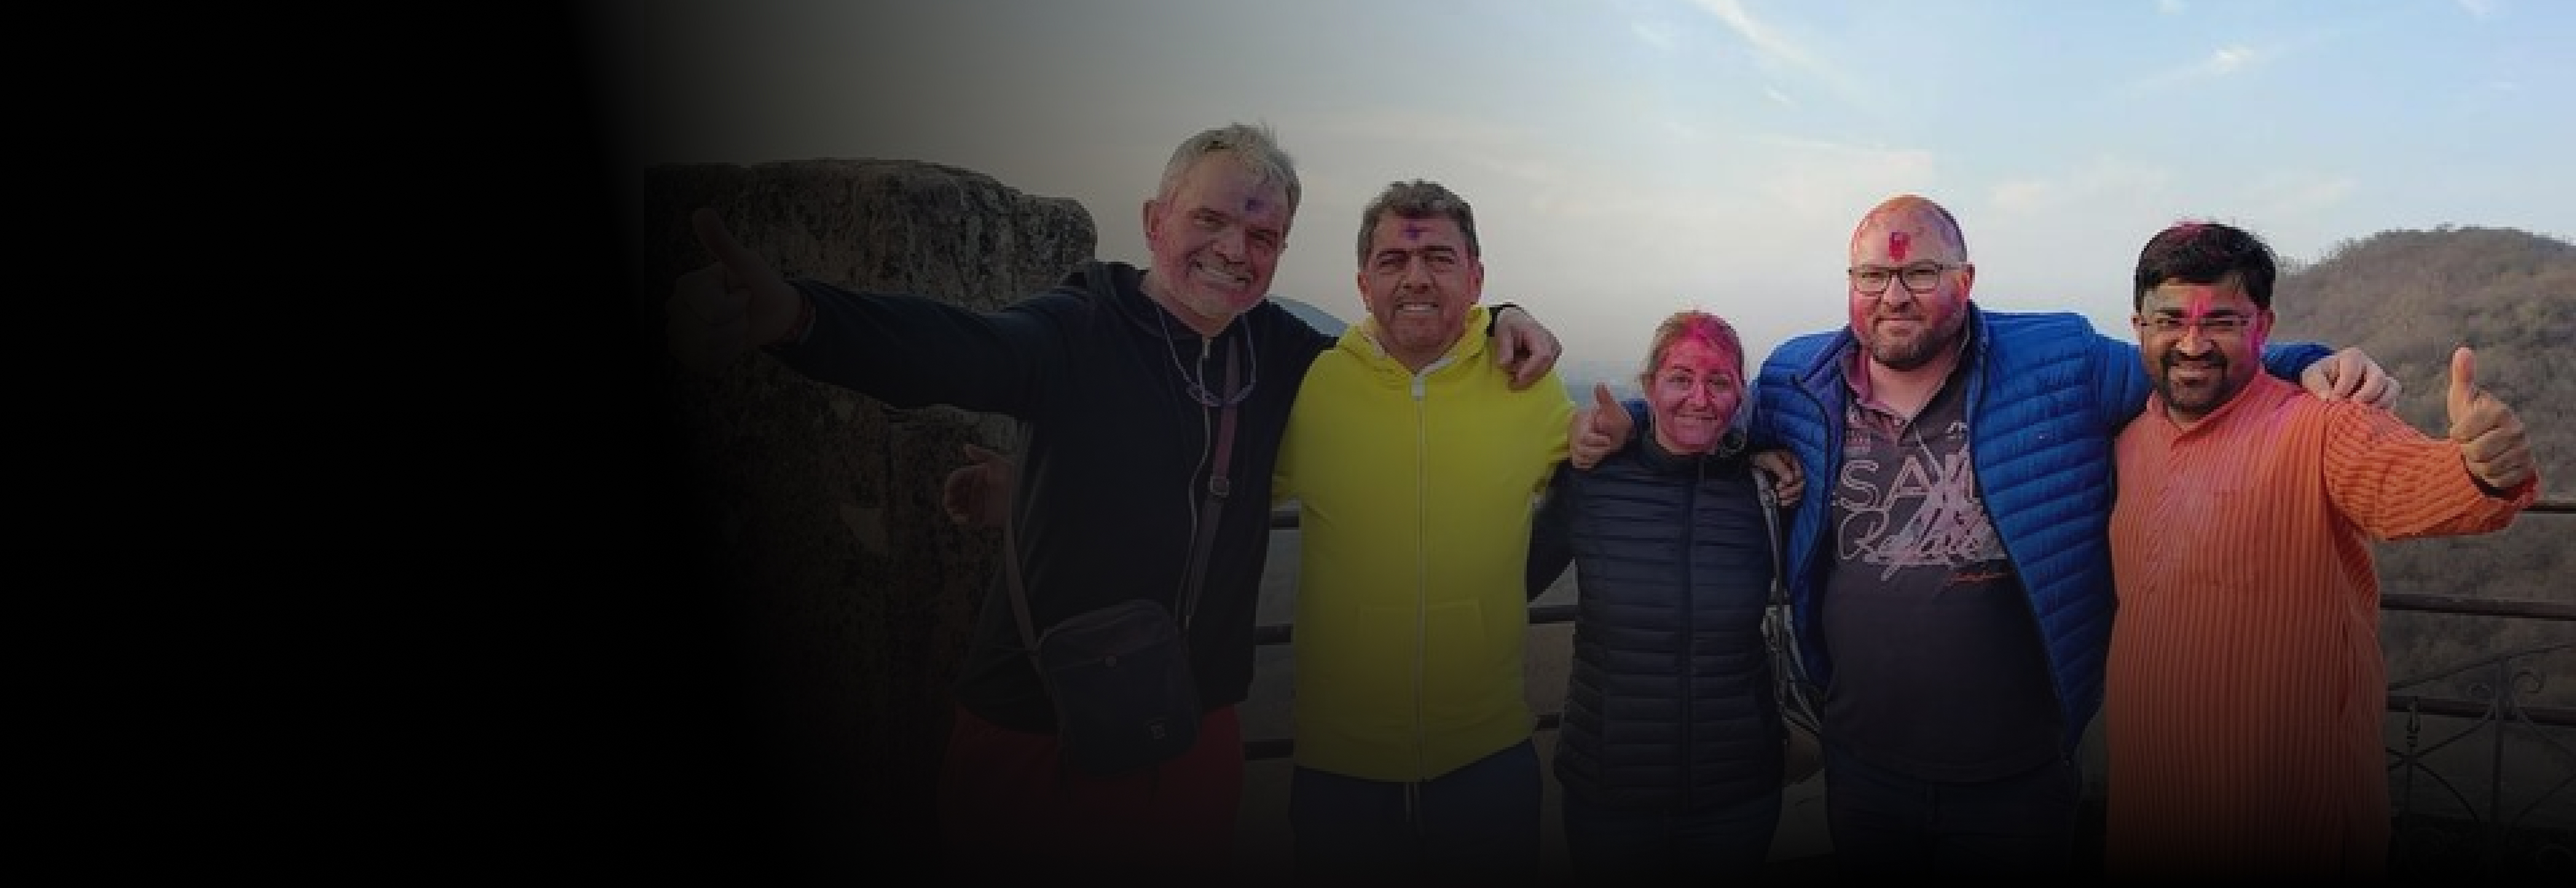
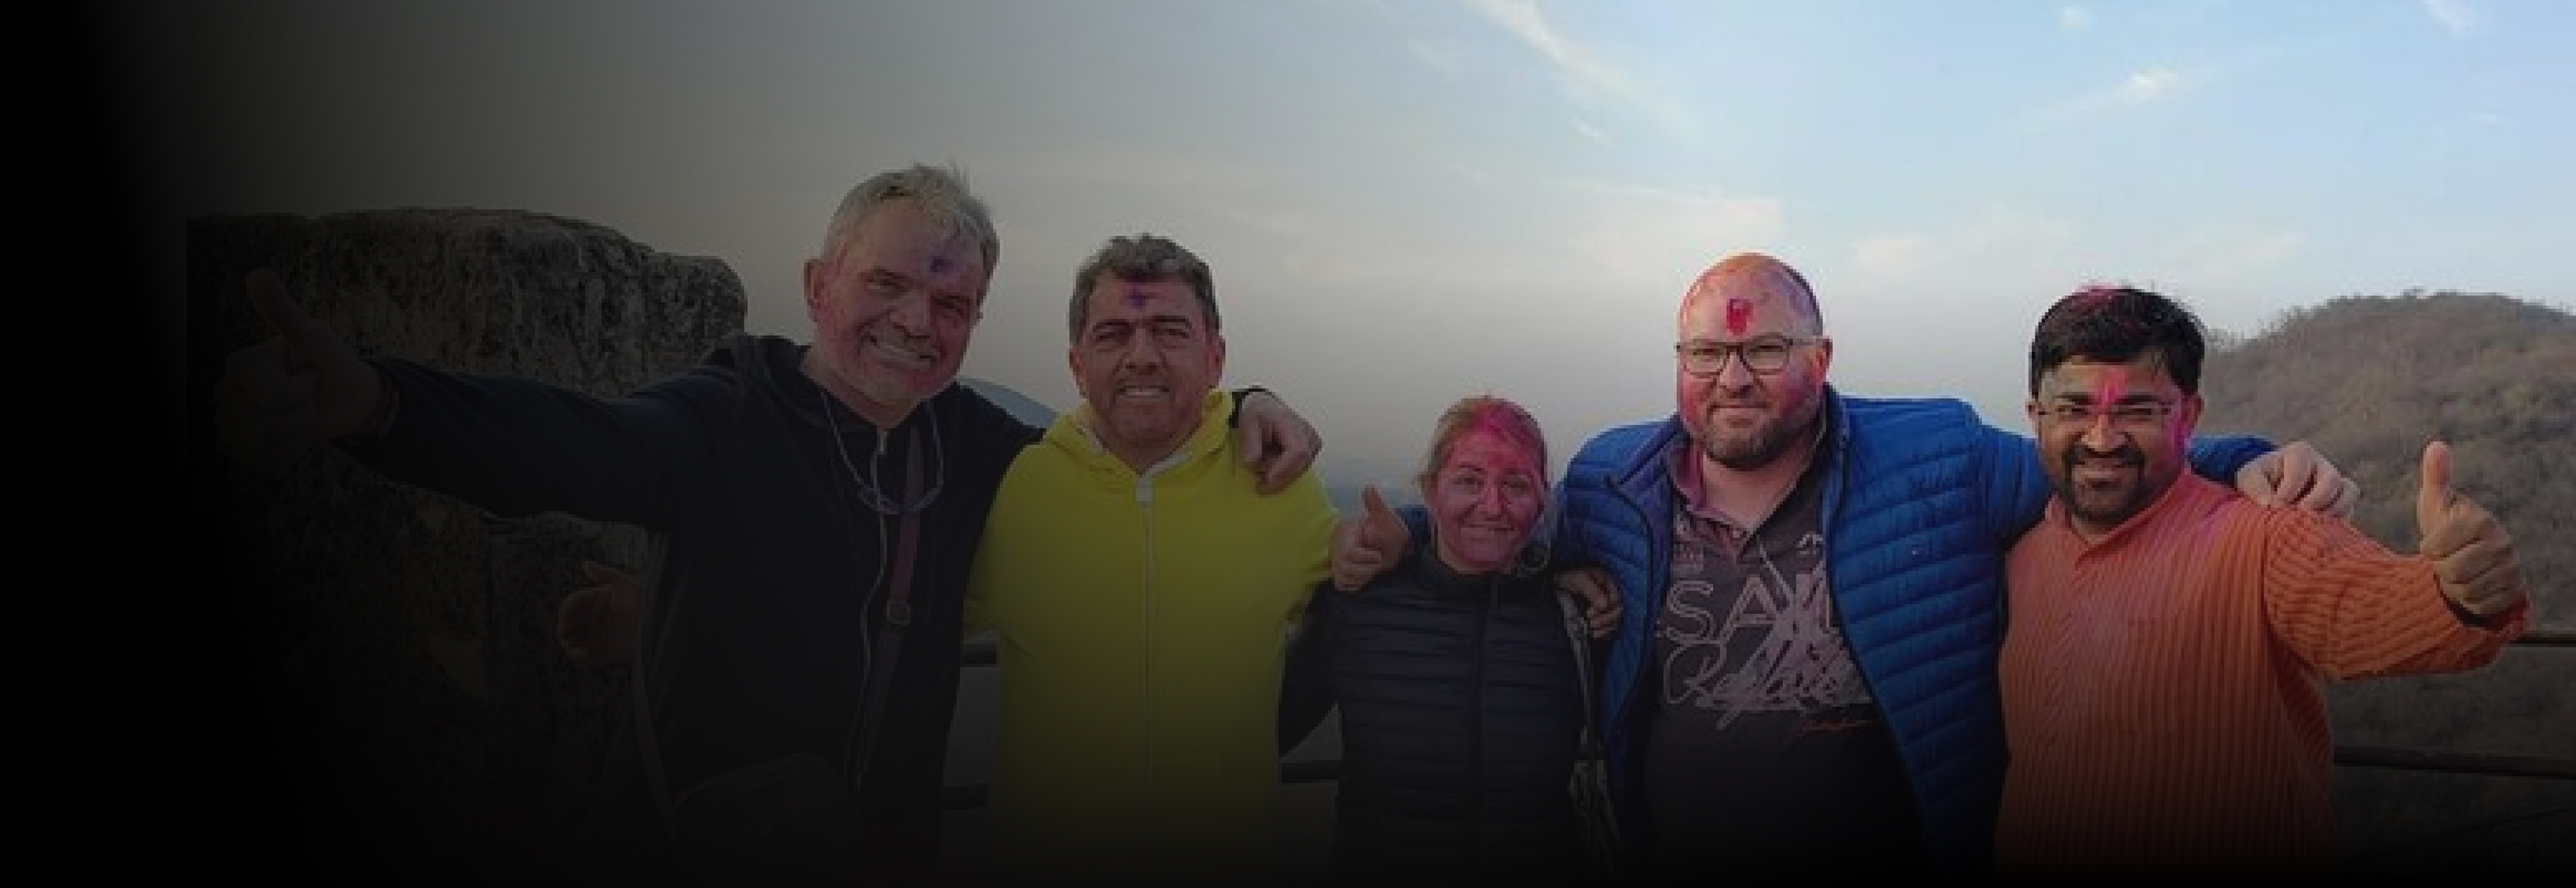
Minimized most.

diff --git a/components/Footer.jsx b/components/Footer.jsx
@@ -52,11 +52,11 @@ const Footer = () => {
 
     return (
         <>
-            <section className="py-5 container-fluid">
+            <section className="py-4 container-fluid bg-black">
                 <Container>
                     <Row className="d-flex justify-content-center align-items-center">
-                        <div className="col-lg-6 col-sm-12 px-2 my-2 text-white">
-                            <div className='w-100 rounded-4' style={{ position: 'relative', height: '35vh', maxHeight: '300px' }}>
+                        <div className="col-lg-6 col-sm-12 px-2 my-2 text-white footer-banner">
+                            <div className='w-100 rounded-4 footer-banner-insider'>
                                 <Image width={800} height={400} quality={100} alt='Query banner' src='/Images/Banners/review-banner.jpg' className='w-100 h-100 rounded-4' style={{ objectFit: 'cover' }}
                                 />
                                 <div style={{ position: 'absolute', bottom: '24px', left: '24px' }}>
@@ -86,16 +86,16 @@ const Footer = () => {
                                 <a href="https://www.tripadvisor.in/Attraction_Review-g304555-d24123312-Reviews-Rajasthan_Travel_Helpline-Jaipur_Jaipur_District_Rajasthan.html"
                                     className="rounded-5"
                                     target="_blank"
-                                    aria-label='trip advisor' style={{ position: 'absolute', top: '12px', right: '12px', backgroundColor: 'rgb(0, 168, 107)' }} onClick={handleShow}>
-                                    <button className='bg-transparent d-flex align-items-center shadow-none text-white' >
+                                    aria-label='trip advisor' style={{ position: 'absolute', top: '12px', right: '12px', backgroundColor: 'rgb(0, 168, 107)' }} >
+                                    <button className='bg-transparent d-flex align-items-center shadow-none text-white'>
                                         <span className='me-2 text-white'>visit now</span>
                                         <BsArrowUpRightCircleFill />
                                     </button>
                                 </a>
                             </div>
                         </div>
-                        <div className="col-lg-6 col-sm-12 px-2 my-2 text-white">
-                            <div className='w-100 rounded-4' style={{ position: 'relative', height: '35vh', maxHeight: '300px' }}>
+                        <div className="col-lg-6 col-sm-12 px-2 my-2 text-white footer-banner">
+                            <div className='w-100 rounded-4 footer-banner-insider'>
                                 <Image width={800} height={400} quality={100} alt='Query banner' src='/Images/Banners/footer-banner.jpg' className='w-100 h-100 rounded-4' style={{ objectFit: 'cover' }}
                                 />
                                 <div style={{ position: 'absolute', bottom: '24px', left: '24px' }}>
@@ -108,7 +108,6 @@ const Footer = () => {
                                 </button>
                             </div>
                         </div>
-
                     </Row>
                 </Container>
             </section>
@@ -491,7 +490,7 @@ const Footer = () => {
                                     terms & conditions
                                 </Link>
                                 <span className='text-white opacity-25'>•</span>
-                                <Link href="/sitemap.xml" className='text-white opacity-50 fw-light font-min anchor-link-u-white'>
+                                <Link href="/sitemap" className='text-white opacity-50 fw-light font-min anchor-link-u-white'>
                                     sitemap
                                 </Link>
                             </div>

diff --git a/styles/components.scss b/styles/components.scss
@@ -2587,3 +2587,40 @@ p {
 .visible {
   display: block; /* Show currently active elements */
 }
+
+// footer banners
+.footer-banner {
+  .footer-banner-insider {
+    position: relative;
+    height: 40vh;
+    max-height: 300px;
+    overflow: hidden;
+    @media screen and (max-width: 768px) {
+      height: 30vh;
+    }
+    img {
+      transition: 0.1s ease-in-out;
+    }
+    &:hover {
+      img {
+        filter: brightness(1.1);
+      }
+    }
+  }
+  .footer-banner-insider:first-child {
+    a {
+      transition: 0.1s ease-in-out;
+    }
+    a:hover {
+      transform: scale(1.02);
+    }
+  }
+  .footer-banner-insider:last-child {
+    button {
+      transition: 0.1s ease-in-out;
+    }
+    button:hover {
+      transform: scale(1.02);
+    }
+  }
+}
